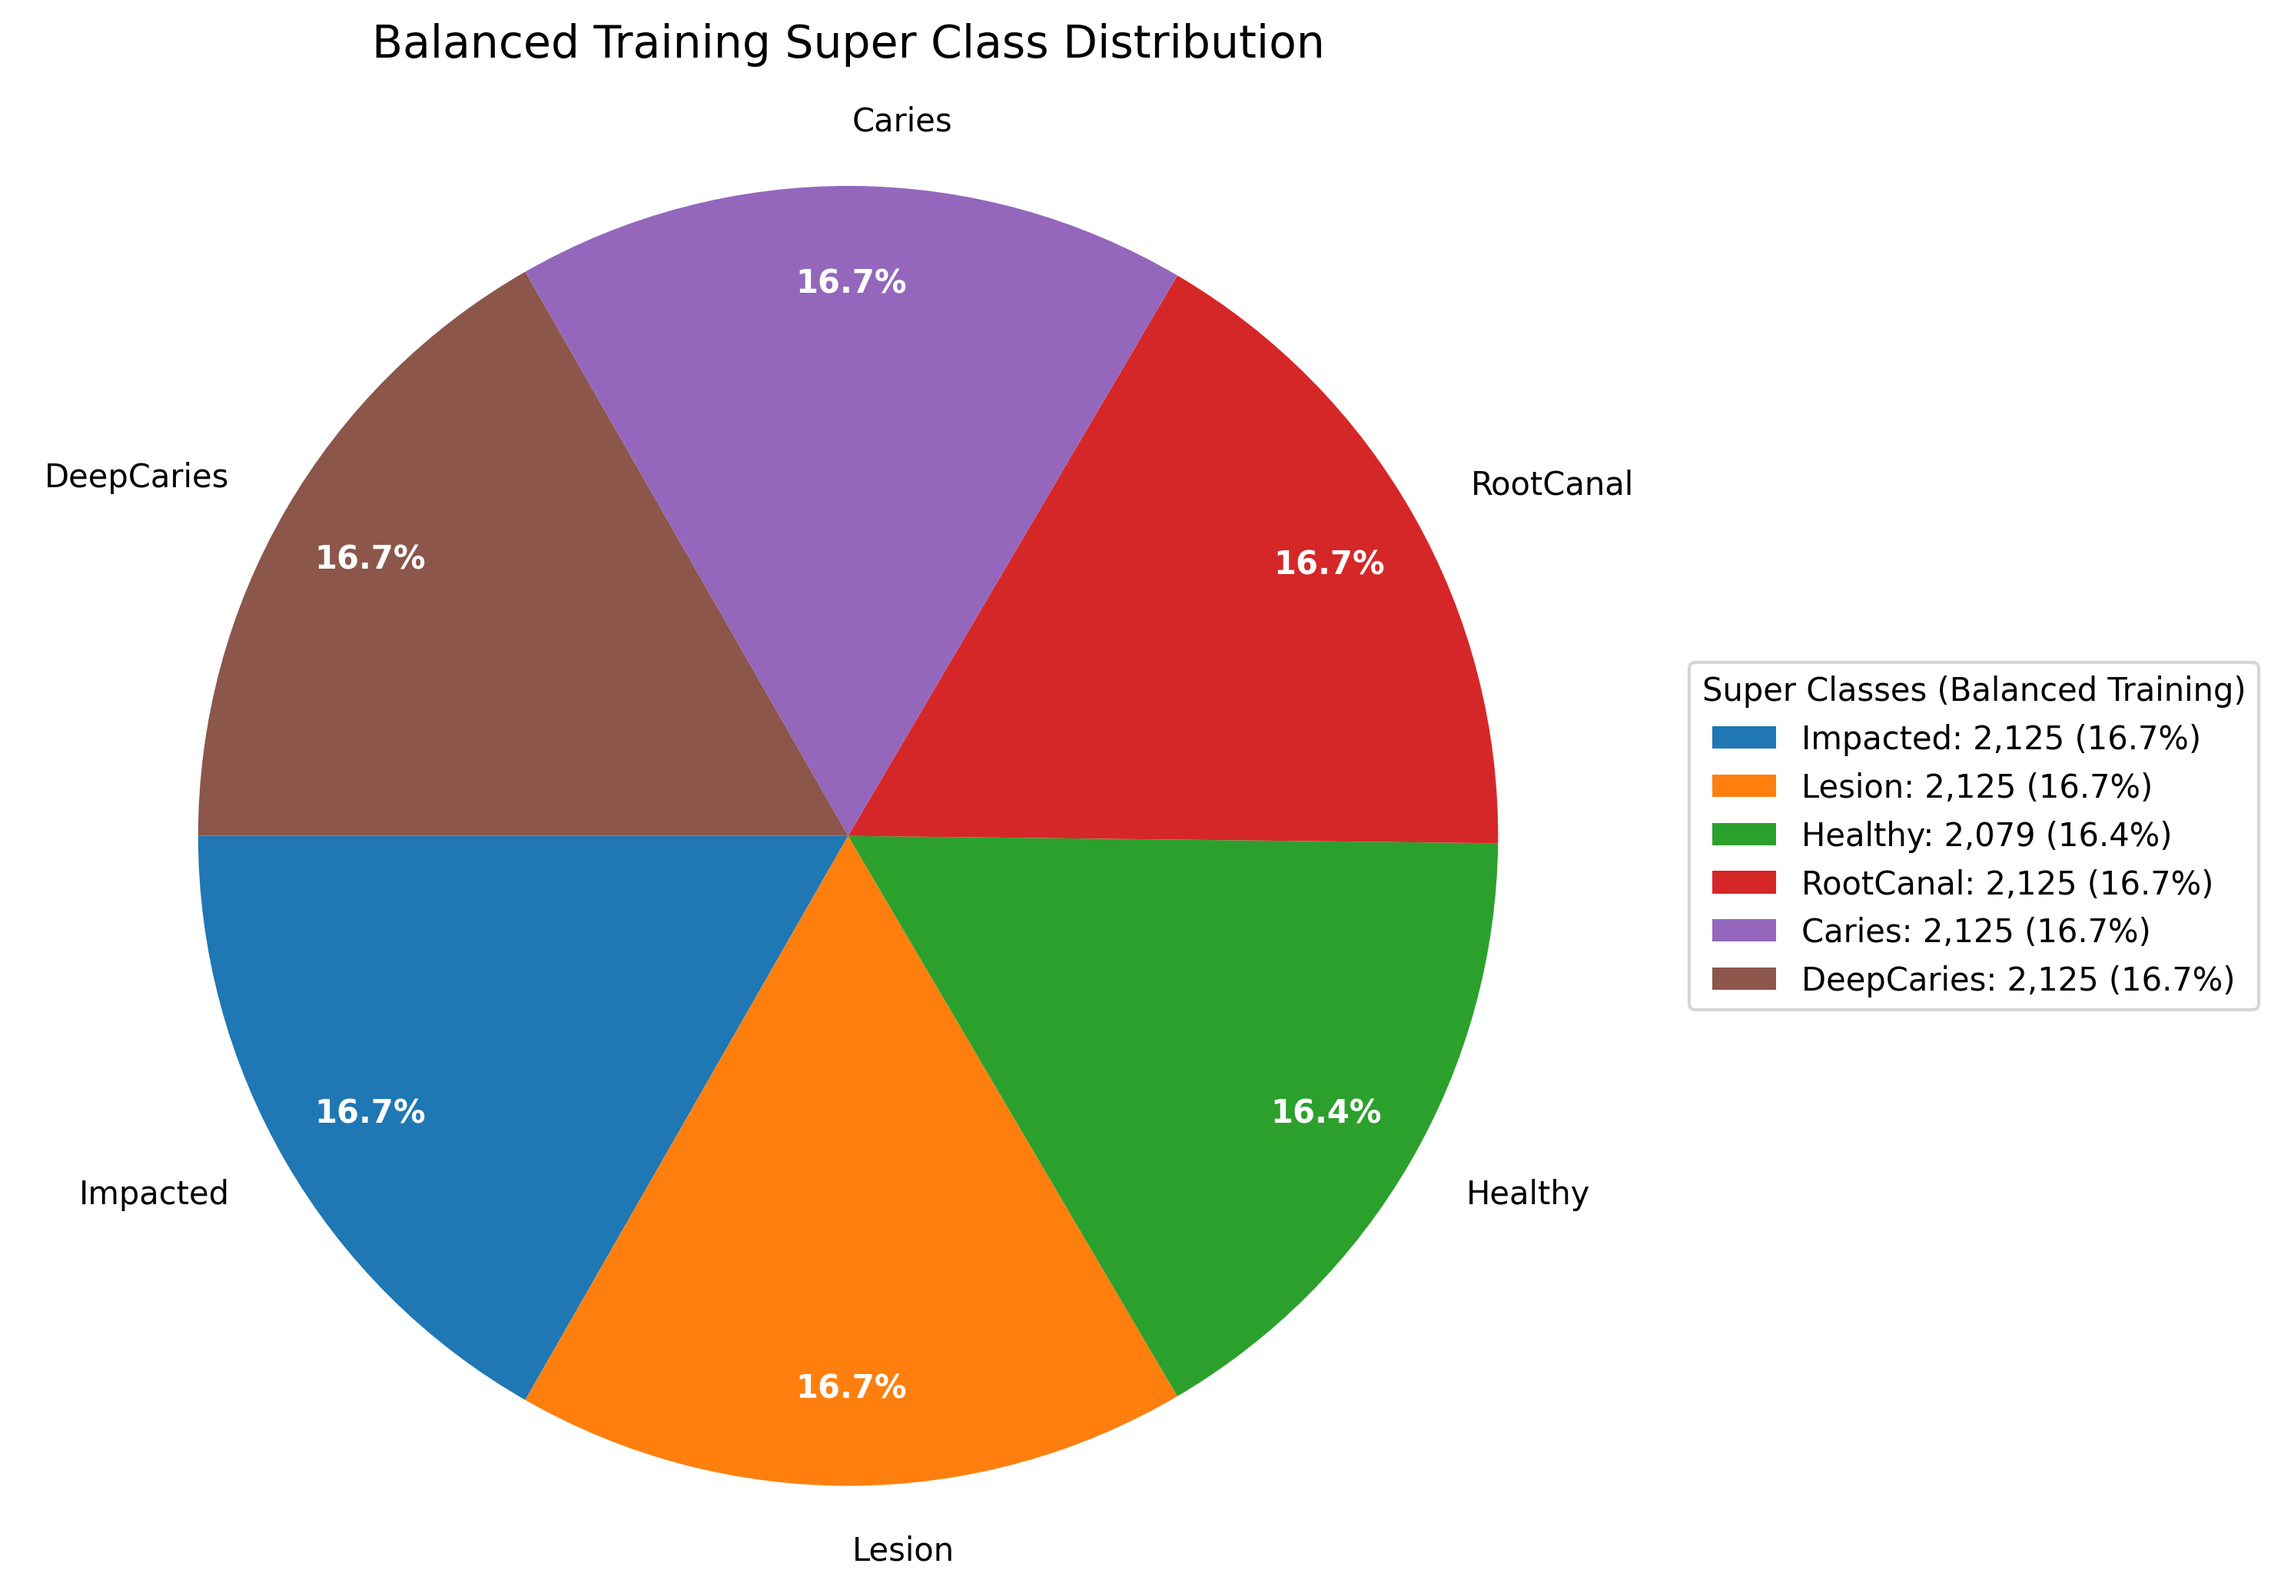
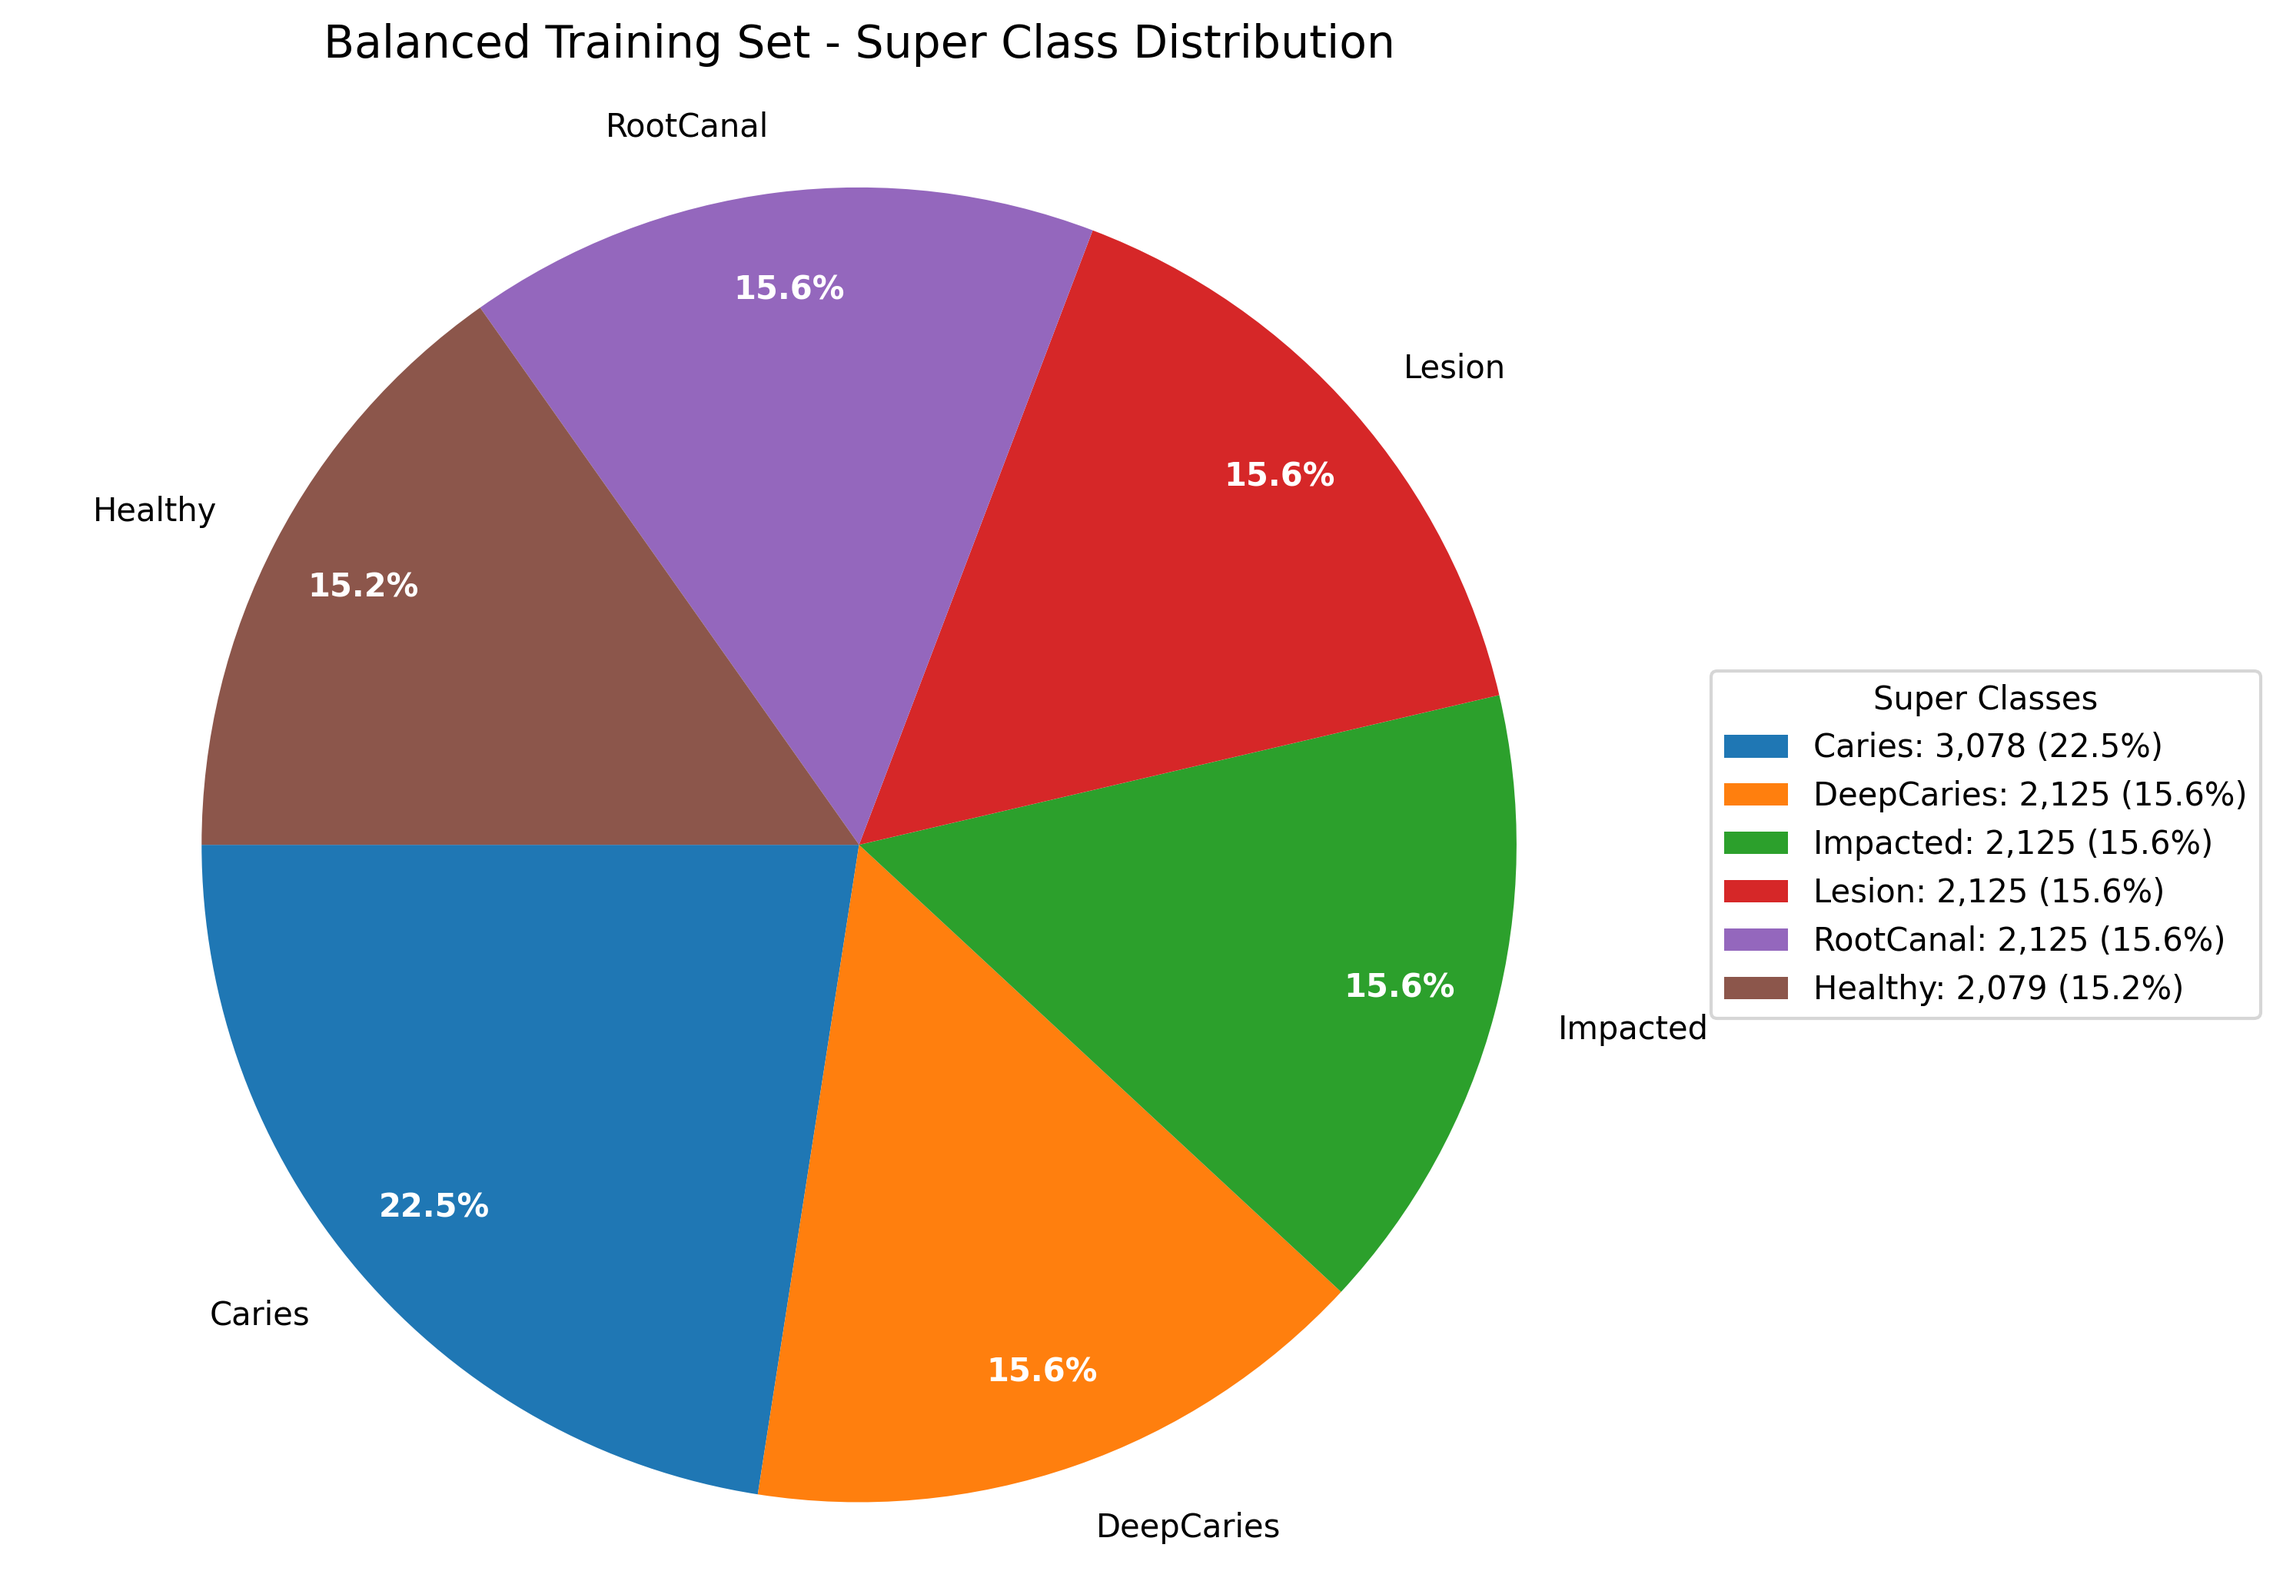
Updated README figures

diff --git a/eda.py b/eda.py
@@ -215,3 +215,117 @@ plt.savefig(
     bbox_inches="tight",
 )
 ############ end super classes pie chart
+
+
+############ balanced train distribution pie chart
+# Read the balanced training data to get actual class distribution
+balanced_train_dir = "./data_balanced_train/"
+balanced_train_classes = {}
+
+for filename in os.listdir(balanced_train_dir):
+    if not filename.endswith(".png"):
+        continue
+    parts = filename.split("_")
+    class_name = parts[1]
+    balanced_train_classes[class_name] = balanced_train_classes.get(class_name, 0) + 1
+
+# Map to super classes for balanced training data
+balanced_super_class_counts = {}
+for super_class, sub_classes in super_classes.items():
+    count = sum(balanced_train_classes.get(sub_class, 0) for sub_class in sub_classes)
+    balanced_super_class_counts[super_class] = count
+
+labels = list(balanced_super_class_counts.keys())
+sizes = list(balanced_super_class_counts.values())
+total = sum(sizes)
+fig1, ax1 = plt.subplots(figsize=(10, 7))
+wedges, texts, autotexts = ax1.pie(
+    sizes,
+    labels=labels,
+    autopct="%1.1f%%",
+    startangle=180,
+    pctdistance=0.85,
+    labeldistance=1.1,
+)
+for autotext in autotexts:
+    autotext.set_color("white")
+    autotext.set_fontsize(10)
+    autotext.set_weight("bold")
+legend_labels = [
+    f"{label}: {count:,} ({count/total*100:.1f}%)"
+    for label, count in zip(labels, sizes)
+]
+ax1.legend(
+    wedges,
+    legend_labels,
+    title="Super Classes",
+    loc="center left",
+    bbox_to_anchor=(1, 0, 0.5, 1),
+    fontsize=10,
+)
+ax1.axis("equal")
+plt.title("Balanced Training Set - Super Class Distribution", fontsize=14, pad=20)
+plt.tight_layout()
+plt.savefig(
+    os.path.join(figure_dir, "balanced_training_super_class_distribution.png"),
+    dpi=300,
+    bbox_inches="tight",
+)
+############ end balanced train distribution pie chart
+
+
+############ test distribution pie chart
+# Read the test data to get class distribution
+test_dir = "./data_test/"
+test_classes = {}
+
+for filename in os.listdir(test_dir):
+    if not filename.endswith(".png"):
+        continue
+    parts = filename.split("_")
+    class_name = parts[1]
+    test_classes[class_name] = test_classes.get(class_name, 0) + 1
+
+# Map to super classes for test data
+test_super_class_counts = {}
+for super_class, sub_classes in super_classes.items():
+    count = sum(test_classes.get(sub_class, 0) for sub_class in sub_classes)
+    test_super_class_counts[super_class] = count
+
+labels = list(test_super_class_counts.keys())
+sizes = list(test_super_class_counts.values())
+total = sum(sizes)
+fig1, ax1 = plt.subplots(figsize=(10, 7))
+wedges, texts, autotexts = ax1.pie(
+    sizes,
+    labels=labels,
+    autopct="%1.1f%%",
+    startangle=180,
+    pctdistance=0.85,
+    labeldistance=1.1,
+)
+for autotext in autotexts:
+    autotext.set_color("white")
+    autotext.set_fontsize(10)
+    autotext.set_weight("bold")
+legend_labels = [
+    f"{label}: {count:,} ({count/total*100:.1f}%)"
+    for label, count in zip(labels, sizes)
+]
+ax1.legend(
+    wedges,
+    legend_labels,
+    title="Super Classes",
+    loc="center left",
+    bbox_to_anchor=(1, 0, 0.5, 1),
+    fontsize=10,
+)
+ax1.axis("equal")
+plt.title("Test Set - Super Class Distribution", fontsize=14, pad=20)
+plt.tight_layout()
+plt.savefig(
+    os.path.join(figure_dir, "test_super_class_distribution.png"),
+    dpi=300,
+    bbox_inches="tight",
+)
+############ end test distribution pie chart

diff --git a/README.md b/README.md
@@ -12,10 +12,22 @@ python augment_images.py
 python balance_training_data.py 
 ```
 
+File structure after running the above scripts:
+```
+data (5311)
+data_balanced_train (12704 - oversampled)
+data_train (3686 - 70%)
+data_validation (791 - 15%)
+data_test (794 - 15%)
+```
+
 This should result in a 70/15/15 train/validation/test split into the `data_train`, `data_validation`, and `data_test` directories.  
 
 A version of the training set that been balanced by oversampling the minority classes is labeled `data_balanced_train`. The class distribution in the balanced training set is shown below:
 ![Balanced Training Set Class Distribution](figures/balanced_training_super_class_distribution.png)
+
+The test set class distribution is shown below:
+![Test Set Class Distribution](figures/test_super_class_distribution.png)
 
 The super classes were created from the following mapping:
 ```python
@@ -99,7 +111,7 @@ Configuration:
 - Confusion Matrix: `metrics/simple_cnn_confusion_matrix.png`
 
 ## EDA - Exploratory Data Analysis
-The `eda.py` script does some basic EDA and generates a pie chart of the class distribution in the training set.
+The `eda.py` script does some basic EDA and generates a pie chart of the class distribution in the training set. In our anaylsis the smallest two classes (Fracture and Extraction) were excluded due to their very low representation in the dataset. 
 ![Pie chart of class distribution in training set](figures/class_distribution.png)
 ![Core 4 Class Distribution](figures/core4_class_distribution.png)
 ```
